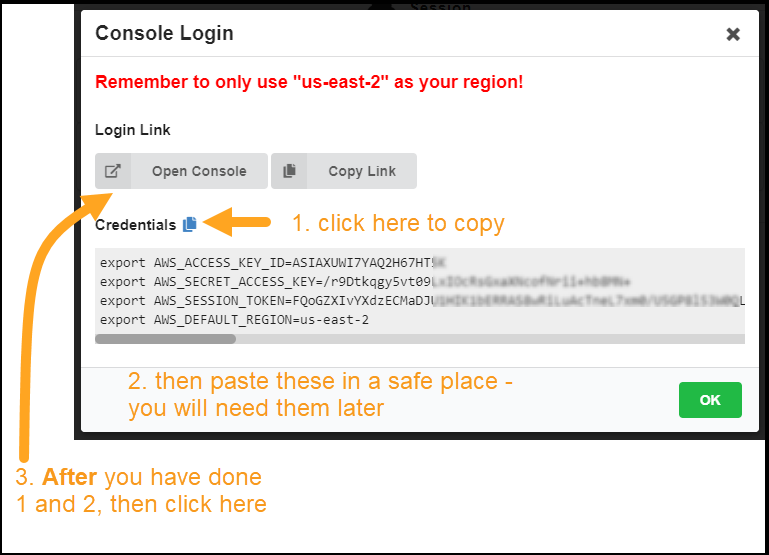
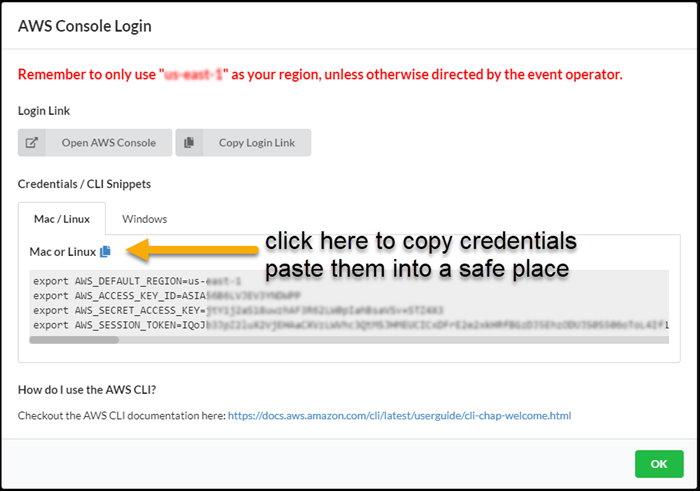
update instructions for using Event Engine

Changed region(s): [[0.0, 0.0, 1.0, 1.0]]

diff --git a/layouts/shortcodes/common/Workshop_AWS_Account.md b/layouts/shortcodes/common/Workshop_AWS_Account.md
@@ -1,24 +1,27 @@
 1. Go to <https://dashboard.eventengine.run/login>
 
-1. Enter the 12 character _hashcode_ you were provided and click "Proceed"
+1. Enter the 16 character _hashcode_ you were provided and click "Proceed"
   ![AWSAccountCodeProceed](/Common/images/AWSAccountCodeProceed.png)
+
+1. Sign-in using either an Amazon.com retail account or a One-Time Password (OTP) that will be emailed to you.
+  ![AWSAccountSignIn](/Common/images/AWSAccountSignIn.png)
 
 1. [optional] assign a name to your account (this is referred to as "Team name")
      * click "Set Team Name"
      * Enter a name and click "Set Team Name"
 
 1. Click "AWS Console"
+  ![AWSAccountEvent](/Common/images/AWSAccountEvent.png)
 
-### AWS credentials
+1. Get and store your AWS credentials
+     * **IMPORTANT** Copy the provided credentials and save them.  You wil need these to complete the workshop
+        ![AWSAccountCredsAndConsole](/Common/images/AWSAccountCredsAndConsole.png)
 
-* **IMPORTANT** Copy the provided credentials and save them.  You wil need these to complete the workshop
-  ![AWSAccountCredsAndConsole](/Common/images/AWSAccountCredsAndConsole.png)
+     * Copy the _whole_ code block corresponding to the system you are using.
 
-* Copy the _whole_ code block corresponding to the system you are using.
-
-### Access the AWS console
-
-* Click "Open Console". The AWS Console will open.
+1. Access the AWS console
+    * Click "Open AWS Console".
+    * The AWS Console will open and you can continue the lab.
 
 ---
 
